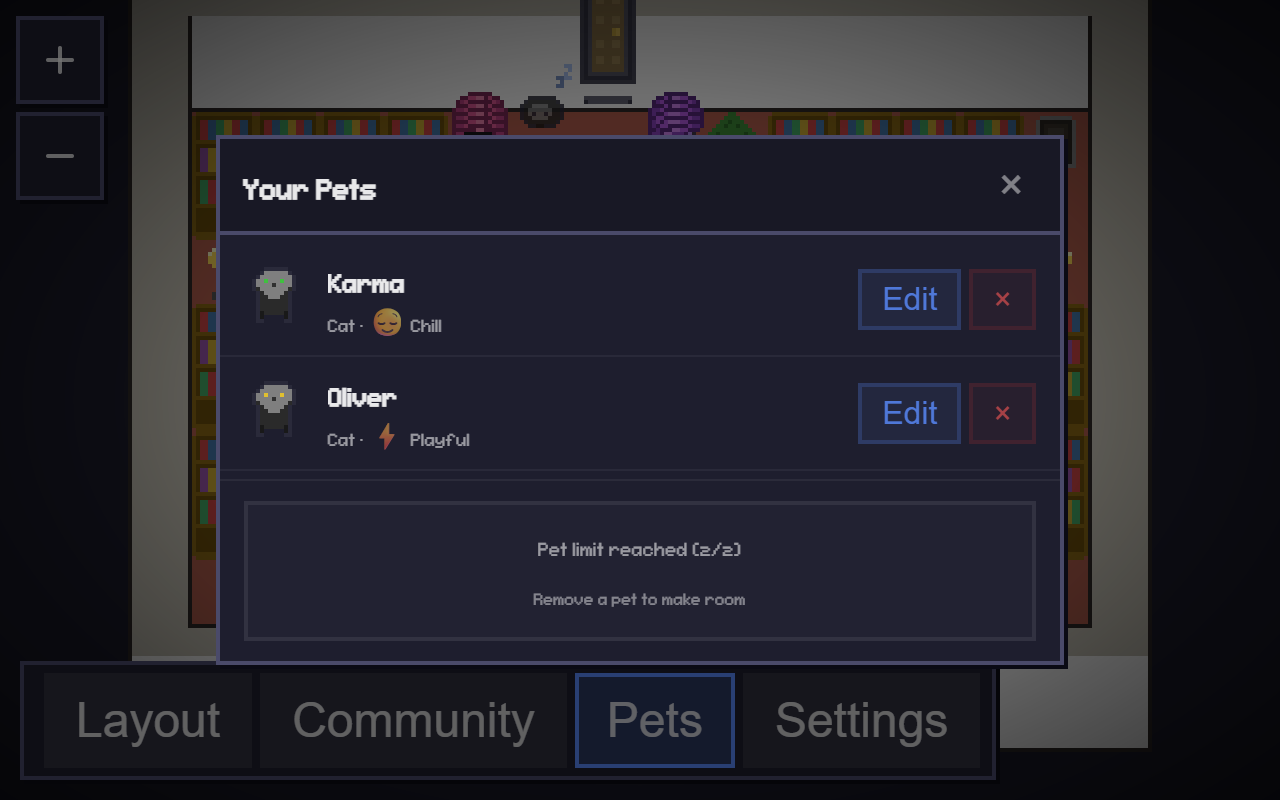
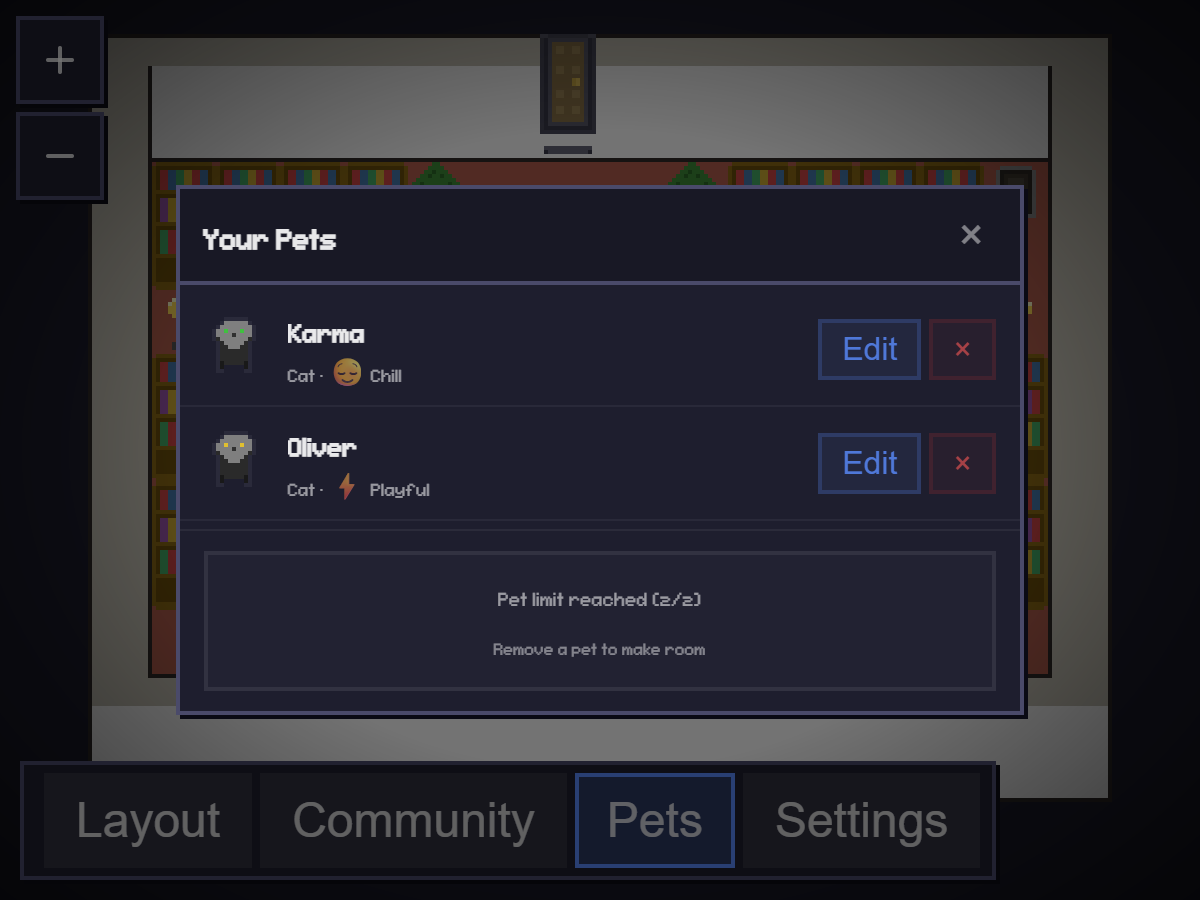
feat: Phase 4 launch prep — screenshots, demo GIF, pet editor fix, launch post drafts
- Fix pet editor modal: Save Changes button no longer overlaps color pickers
  (scrollable form area + fixed footer instead of sticky positioning)
- Retake all screenshots at proper resolution with screenshot mode
- Record 10s demo GIF with 3 simulated agents and pets
- Update README with feature screenshots and community gallery section
- Draft launch posts for Reddit, HN, Twitter, Discord, Product Hunt
- Update product plan with Phase 4 progress

Changed region(s): [[0.0, 0.0, 0.925, 1.0], [0.0617, 0.875, 0.185, 0.9375]]

diff --git a/webview-ui/src/components/PetCreatorModal.tsx b/webview-ui/src/components/PetCreatorModal.tsx
@@ -635,8 +635,8 @@ export function PetManagerModal({ isOpen, onClose, pets, onCreatePet, onDeletePe
           minWidth: 320,
           maxWidth: 420,
           width: '95vw',
-          maxHeight: '80vh',
-          overflowY: 'auto',
+          maxHeight: '85vh',
+          overflow: 'hidden',
           display: 'flex',
           flexDirection: 'column',
         }}
@@ -877,20 +877,20 @@ export function PetManagerModal({ isOpen, onClose, pets, onCreatePet, onDeletePe
         {/* Create view */}
         {view === 'create' && (
           <>
-            <PetForm
-              species={species} setSpecies={setSpecies}
-              name={name} setName={setName}
-              petColors={petColors} setPetColors={setPetColors}
-              personality={personality} setPersonality={setPersonality}
-              showSpeciesSelector={true}
-            />
+            <div style={{ flex: 1, overflowY: 'auto', minHeight: 0 }}>
+              <PetForm
+                species={species} setSpecies={setSpecies}
+                name={name} setName={setName}
+                petColors={petColors} setPetColors={setPetColors}
+                personality={personality} setPersonality={setPersonality}
+                showSpeciesSelector={true}
+              />
+            </div>
             <div style={{
               padding: '10px 12px',
               borderTop: '2px solid var(--pixel-border)',
               background: 'rgba(0,0,0,0.15)',
               flexShrink: 0,
-              position: 'sticky',
-              bottom: 0,
             }}>
               <button
                 onClick={handleCreate}
@@ -903,7 +903,7 @@ export function PetManagerModal({ isOpen, onClose, pets, onCreatePet, onDeletePe
                   border: '2px solid var(--pixel-agent-border)',
                   borderRadius: 0,
                   cursor: 'pointer',
-  
+
                   fontWeight: 'bold',
                 }}
               >
@@ -919,20 +919,20 @@ export function PetManagerModal({ isOpen, onClose, pets, onCreatePet, onDeletePe
         {/* Edit view */}
         {view === 'edit' && editingUid && (
           <>
-            <PetForm
-              species={species} setSpecies={setSpecies}
-              name={name} setName={setName}
-              petColors={petColors} setPetColors={setPetColors}
-              personality={personality} setPersonality={setPersonality}
-              showSpeciesSelector={false}
-            />
+            <div style={{ flex: 1, overflowY: 'auto', minHeight: 0 }}>
+              <PetForm
+                species={species} setSpecies={setSpecies}
+                name={name} setName={setName}
+                petColors={petColors} setPetColors={setPetColors}
+                personality={personality} setPersonality={setPersonality}
+                showSpeciesSelector={false}
+              />
+            </div>
             <div style={{
               padding: '10px 12px',
               borderTop: '2px solid var(--pixel-border)',
               background: 'rgba(0,0,0,0.15)',
               flexShrink: 0,
-              position: 'sticky',
-              bottom: 0,
             }}>
               <button
                 onClick={handleSaveEdit}

diff --git a/README.md b/README.md
@@ -29,6 +29,59 @@ Open [http://localhost:3300](http://localhost:3300) — agents appear automatica
 
 For wall displays, use [http://localhost:3300/?kiosk](http://localhost:3300/?kiosk) (auto-framing camera, no UI controls).
 
+## Features
+
+| Feature | Description |
+|---|---|
+| Standalone server | No VS Code required — just Node.js |
+| Auto-discovery | Detects active Claude Code sessions across all projects |
+| Live activity | Characters animate based on current tool usage |
+| Sub-agents | Task tool spawns child characters near their parent |
+| Speech bubbles | Permission (amber dots) and waiting (green check) indicators |
+| Sound notifications | Audio chime when an agent finishes and needs attention |
+| Office pets | Cats and dogs with customizable colors, patterns, and personalities |
+| Door system | Agents enter/exit through doors with matrix spawn animation |
+| Break room | Idle agents grab coffee and lounge on the couch |
+| Layout editor | Design your office with floors, walls, and 50+ furniture items |
+| Community gallery | Browse and import layouts shared by other users |
+| Kiosk mode | Auto-framing camera, status sidebar — perfect for wall displays |
+| Multi-PC | WebSocket reporters aggregate agents from multiple machines |
+| SDK agents | Report custom agents (Claude SDK, cron jobs, any process) |
+| VS Code extension | Also works as a panel in VS Code |
+| Cross-tab sync | Layout changes sync across all open tabs/windows |
+| HTTP API | `/api/status` for monitoring, `/api/reload` for remote control |
+
+### Office Pets
+
+Add cats and dogs to your office. Each pet has customizable colors (body, eyes, nose), coat patterns (solid, striped, spotted, bicolor, tuxedo), and personality traits that affect behavior.
+
+![Pet Editor](docs/screenshots/03-pet-editor.png)
+
+### Layout Editor
+
+Toggle the editor to customize your office:
+
+- **Floor** — 7 tile patterns with HSB color controls
+- **Walls** — Auto-tiling with 16 bitmask variants
+- **Furniture** — Desks, chairs, monitors, bookshelves, plants, wall art...
+- **Rotate** (R) / **Toggle** (T) / **Pick** (eyedropper) / **Drag** to move
+- **Undo/Redo** (Ctrl+Z/Y) with 50-level history
+- **Export/Import** layouts as JSON
+
+![Layout Editor](docs/screenshots/04-layout-editor.png)
+
+### Community Gallery
+
+Browse layouts shared by the community and import them with one click. Share your own designs via GitHub.
+
+![Community Gallery](docs/screenshots/07-community-gallery.png)
+
+### Kiosk Mode
+
+Full-screen mode with auto-framing camera that follows agent activity. Perfect for wall-mounted monitors.
+
+![Kiosk Mode](docs/screenshots/06-kiosk-mode.png)
+
 ## Multi-PC Setup
 
 Run a central server on your homeserver and report agents from any machine:
@@ -69,38 +122,6 @@ reporter.taskEnd();
 
 See [docs/standalone.md](docs/standalone.md) for full setup, SDK integration, WebSocket protocol, and API docs.
 
-## Features
-
-| Feature | Description |
-|---|---|
-| Standalone server | No VS Code required — just Node.js |
-| Auto-discovery | Detects active Claude Code sessions across all projects |
-| Live activity | Characters animate based on current tool usage |
-| Sub-agents | Task tool spawns child characters near their parent |
-| Speech bubbles | Permission (amber dots) and waiting (green check) indicators |
-| Sound notifications | Audio chime when an agent finishes and needs attention |
-| Office pets | Cats and dogs roam the office, react to agent activity, and sleep when idle |
-| Door system | Agents enter/exit through doors instead of spawning in place |
-| Break room | Idle agents grab coffee and lounge on the couch |
-| Layout editor | Design your office with floors, walls, and 50+ furniture items |
-| Kiosk mode | Auto-framing camera, status sidebar, 15fps throttle |
-| Multi-PC | WebSocket reporters aggregate agents from multiple machines |
-| SDK agents | Report custom agents (Claude SDK, cron jobs, any process) |
-| VS Code extension | Also works as a panel in VS Code |
-| Cross-tab sync | Layout changes sync across all open tabs/windows |
-| HTTP API | `/api/status` for monitoring, `/api/reload` for remote control |
-
-## Layout Editor
-
-Toggle the editor to customize your office:
-
-- **Floor** — 7 tile patterns with HSB color controls
-- **Walls** — Auto-tiling with 16 bitmask variants
-- **Furniture** — Desks, chairs, monitors, bookshelves, plants, wall art...
-- **Rotate** (R) / **Toggle** (T) / **Pick** (eyedropper) / **Drag** to move
-- **Undo/Redo** (Ctrl+Z/Y) with 50-level history
-- **Export/Import** layouts as JSON
-
 ## Office Assets
 
 The office tileset is **[Office Interior Tileset (16x16)](https://donarg.itch.io/officetileset)** by **Donarg** ($2 on itch.io). Characters are based on **[Metro City](https://jik-a-4.itch.io/metrocity-free-topdown-character-pack)** by **JIK-A-4**.
@@ -122,7 +143,7 @@ The app works without it — you get characters and a basic layout, but not the 
 
 ## Roadmap
 
-See [ROADMAP.md](ROADMAP.md) for the full plan. Next: public launch.
+See [ROADMAP.md](ROADMAP.md) for the full plan. Next: new features.
 
 ## License
 
